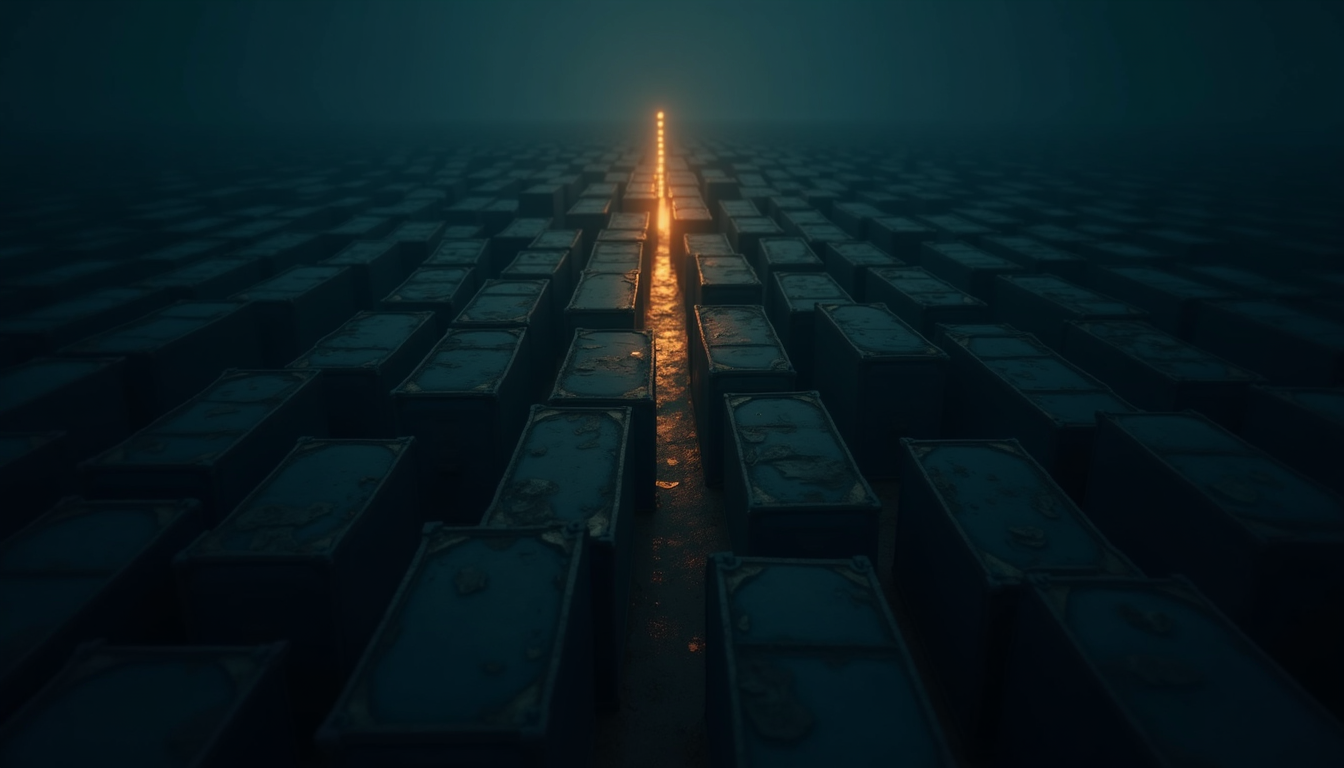
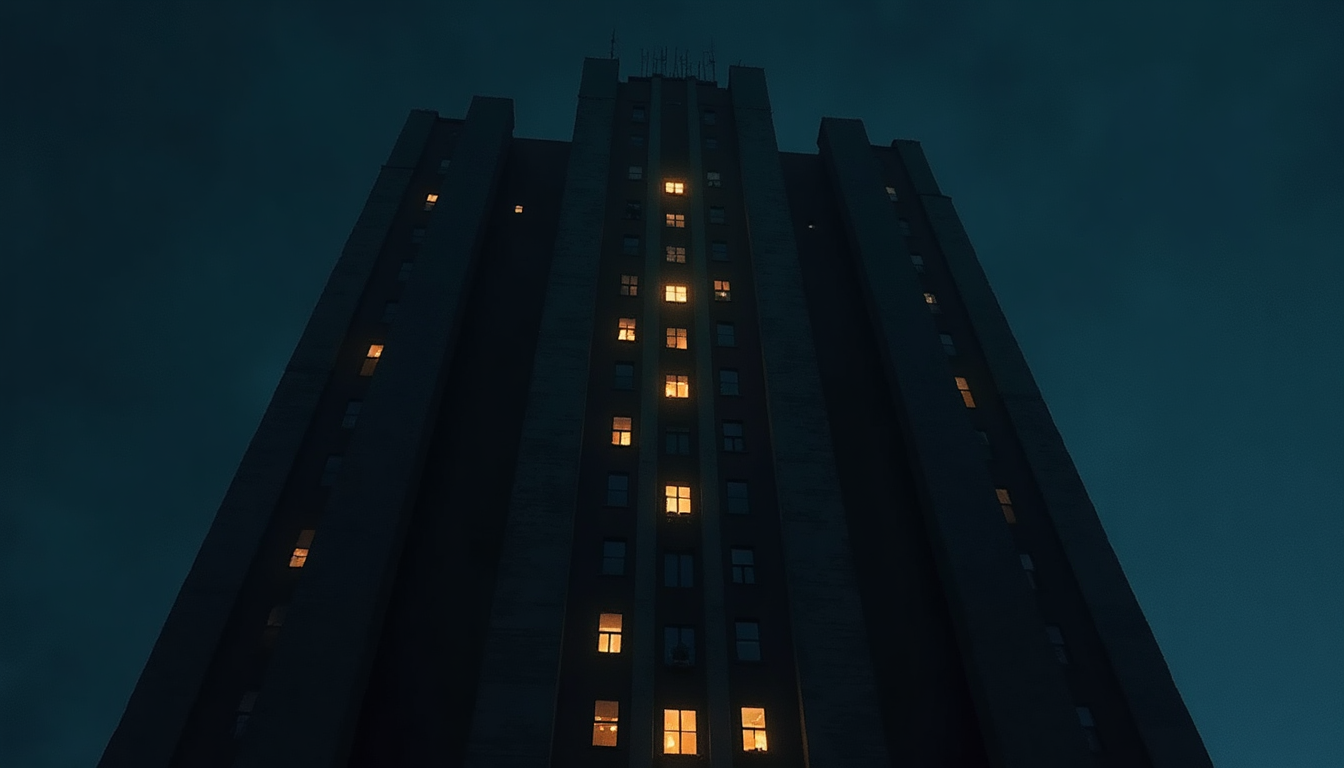
Replace the kubeside cover image and its alt text
Claude-Session: https://claude.ai/code/session_014cZeJp8Tm7fr79q3P7cns2

diff --git a/src/pt-br/posts/2026-08-01-kubeside-launch.md b/src/pt-br/posts/2026-08-01-kubeside-launch.md
@@ -4,7 +4,7 @@ subtitle: "Um cliente Kubernetes feito para o desenvolvedor que entrega a aplica
 date: 2026-08-01
 description: "Lançamento do kubeside, um cliente Kubernetes open source para desenvolvedores de aplicação. Quatro perguntas em qa, stg e prod, nada gravado em disco e uma longa lista de recursos recusados de propósito. Por que nomear a única pessoa que a ferramenta atende transforma a lista de recursos em um problema de subtração."
 cover: /assets/img/2026-08-01-kubeside-launch.png
-coverAlt: "Um campo denso de contêineres geométricos escuros sumindo na escuridão, com um corredor âmbar estreito cortando reto entre eles, iluminando apenas alguns contêineres ao longo do caminho enquanto o resto permanece apagado, luz de contorno azul-esverdeada nas bordas dos blocos, textura de pinceladas e brilho suave."
+coverAlt: "A fachada escura de um prédio alto à noite, vista de baixo, com uma coluna estreita de janelas acesas em âmbar quente subindo pelo centro enquanto todas as outras janelas permanecem apagadas, luz de contorno azul-esverdeada nas bordas de concreto, textura de pinceladas e brilho suave."
 ---
 
 Três terminais abertos. Uma aba por réplica. E um palpite sobre qual versão a produção está rodando de verdade.

diff --git a/src/posts/2026-08-01-kubeside-launch.md b/src/posts/2026-08-01-kubeside-launch.md
@@ -4,7 +4,7 @@ subtitle: "A Kubernetes client scoped to the developer who ships the app, not th
 date: 2026-08-01
 description: "Announcing kubeside, an open-source Kubernetes client for application developers. Four questions across qa, stg, and prod, nothing written to disk, and a long list of features deliberately refused. Why naming the one person a tool serves turns the feature list into a subtraction problem."
 cover: /assets/img/2026-08-01-kubeside-launch.png
-coverAlt: "A dense field of dim geometric containers receding into darkness with one narrow amber corridor cut straight through them, lighting only a few containers along its path while the rest stay unlit, muted teal rim light on the block edges, brushstroke texture and soft bloom."
+coverAlt: "The dark facade of a tall building at night seen from below, with one narrow column of windows lit warm amber running up its center while every other window stays unlit, muted teal rim light along the concrete edges, brushstroke texture and soft bloom."
 ---
 
 Three terminals open. A tab per replica. A guess about which version production is actually running.
